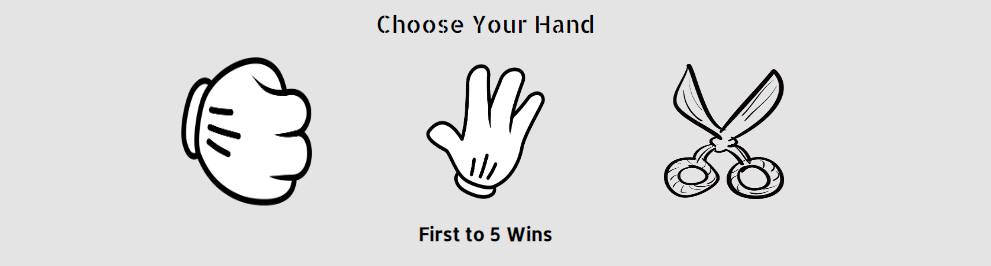
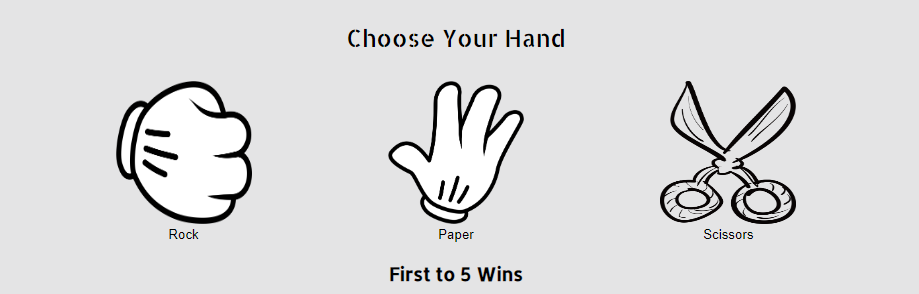
changes some images in the readme

diff --git a/README.md b/README.md
@@ -111,9 +111,9 @@ The color scheme that was used for this game was a light grey color for the back
 - - -
 
 ## Demo:
-Below is a demo video of the game working and also numbered 1 - 10 are each of the hands that were chosen by the player and the copmputer.  
+Below is a demo video of the game working and also numbered 1 - 10 are each of the hands that were chosen by the player and the computer.  
 
-Please note that I have added a **how to play** screen that displays before the game starts, this is not shown in the video below, and I have also changed the winner popup colour and style.  
+Please note that I have added a **how to play** screen that displays before the game starts, this is not shown in the video below, and I have also changed the winner popup colour and style. I have also added Rock Paper and Scissors text under each of the images in the **Choose Your Hand** section.
 1. Player chose Rock and Computer chose Paper, so the Computer scored a point. Score is 0 - 1 to the Computer.
 2. Player chose Paper and Computer chose Rock, so the Player got a point. Score is now 1 - 1 which makes it even.
 3. Player chose Scissors and Computer chose Rock, so the Computer scored a point. Score is now 1 - 2 to the Computer.
@@ -144,9 +144,10 @@ The technologies that were used to create the game were:
 
 
 ## Testing:
-In order to make sure the game was fully responsive and compatible with different devices and browsers, I tested the site on multiple browsers and devices. I also put the code throught validators to make sure there were no major errors. Just to note that when using different devices in Chrome dev tools the layout is not 100% accurate as when testing with the same devices for example the iphone 7 the "How to play" screen looks different from how it actually looks on an Iphone 7, you will see from the real device screenshot below how it actually looks.
+In order to make sure the game was fully responsive and compatible with different devices and browsers, I tested the site on multiple browsers and devices. I also put the code throught validators to make sure there were no major errors. Just to note that when using different devices in Chrome dev tools the layout is not 100% accurate as when testing with the same devices for example the iphone 7 the "How to play" screen looks different from how it actually looks on an Iphone 7, you will see from the real device screenshot below how it actually looks. Also I have also added Rock, Paper and Scissors text under each of the images in the **Choose Your Hand** section which is not displayed in the screenshots below as I had already gotten all the screenshots before adding the text.
 
 ### Below is a list of devices that the game was test on, with screenshots from each device.
+
 
 
 - **IPhone 11**   
